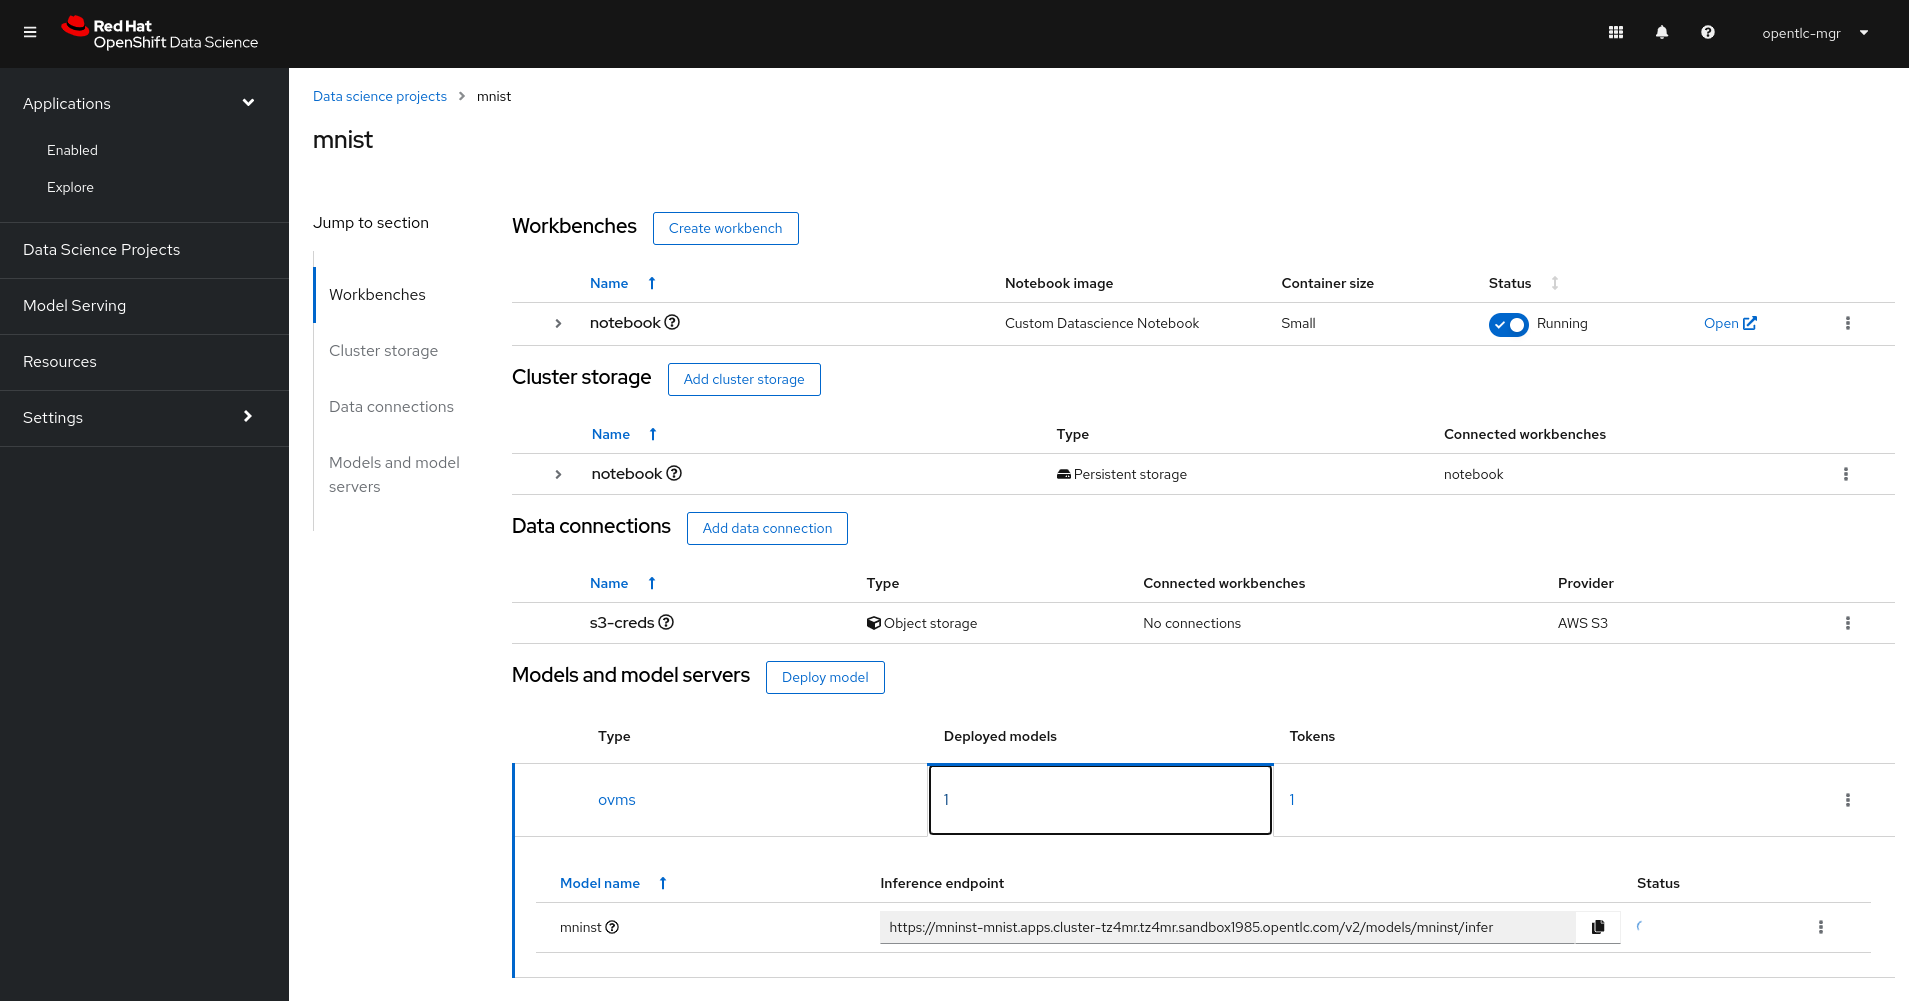
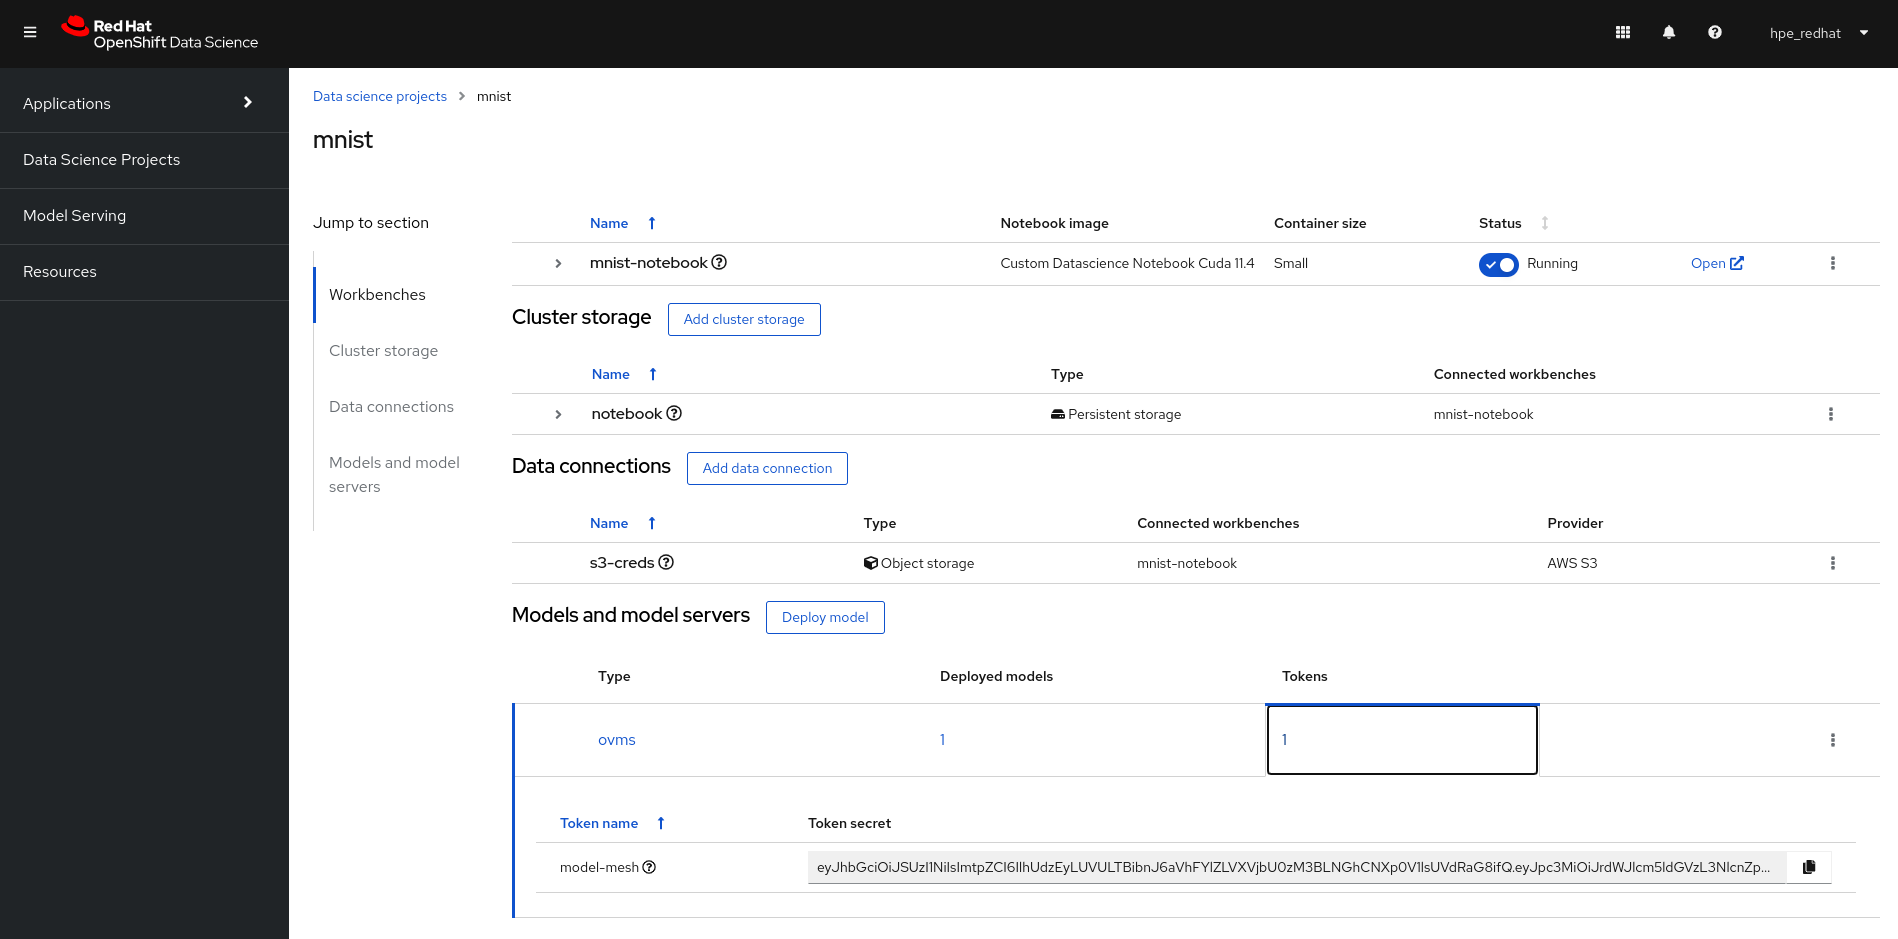
lab instructions

diff --git a/docs/lab-instructions.md b/docs/lab-instructions.md
@@ -2,28 +2,43 @@
 
 ## Log in to Red Hat OpenShift Data Science (RHODS)
 
-On the top right of the screen click on the XXX button and launch Red Hat OpenShift Data Science (RHODS). Select on my_htpasswd_provider and connect with the hpe_redhat user.
+On the top right of the OpenShift console click on the Application Launcher button and click on the Red Hat OpenShift Data Science (RHODS) managed service. Connect using the my_htpasswd_provider and hpe_redhat user.
+
+![launch-dashboard](./screenshots/launch-dashboard.png)
 
 ## Start a new data science project
 
-Go to the **Data Science projects** tab and click on the pre-created **mnist** project. This project has been created with a pvc for the notebook filesystem (i.e the jupyterlab notebooks). It also contains a S3 secret corresponding the the minio credentials deployed in the *redhat-ods-applications* namespace.  
-You need to create a new workbench. Click on the corresponding button and fill up. Don't forget to link the pre-created pvc to the notebook. Complete the form as bellow:
+### Create the workbench
+
+Go to the **Data Science projects** tab and click on the pre-created **mnist** project.
+
+![data-science-project](./screenshots/ds-project.png)
+
+ This project has been created with a pvc for the notebook filesystem (i.e the jupyterlab notebooks). It also has a data connection, which is a secret containing the minio credentials for the S3 storage.  
+You need to create a new workbench. Click on the corresponding button and fill up the form. Don't forget to link the pre-created pvc to the notebook. Complete the form as bellow:
 
 ![create-workbench-1](./screenshots/create-notebook-1.png)
 
 ![create-workbench-2](./screenshots/create-notebook-2.png)
 
-You also have to add the S3 credentials for the notebook you just created. This will restart the notebook as the credentials will the mount on a volume from a secret pre-created for you. See the picture bellow:
+### Edit the Data connections secret
+
+You also have to add the S3 credentials to the notebook you just created. This will restart the notebook as the credentials will be mount on a volume from a secret pre-created for you. See the picture bellow:
 
 ![create-workbench-3](./screenshots/create-notebook-3.png)
 
-RHODS is going to pull a few container images especially the one used for the jupyterlab notebook server. After a few moment the workbench is running and you can open it.
+RHODS is going to pull a few container images especially the one used for the jupyterlab notebook server. This notebook image for this lab is quite heavy (~ 6GB) as it contains the cuda library required to work with the GPU. After a few moment the workbench is running and you can open it.
 
 ![create-workbench-4](./screenshots/create-notebook-4.png)
 
 ## JupyterLab notebooks
 
-On the left side click on the git clone button and clone this repository: https://github.com/adrien-legros/rhods-mnist.git. Navigate to *./rhods-mnist/notebooks/v2*. Check the following files.
+For you are now in the jupyterlab interface.
+On the left side click on the git clone button and clone this repository: https://github.com/adrien-legros/rhods-mnist.git. 
+
+![git-clone](./screenshots/git-clone.png)
+
+Navigate to *./rhods-mnist/notebooks/v2*. Check the following files:
 
 ### Notebooks
 
@@ -31,12 +46,12 @@ There are 3 notebooks available: Pre-process, Train and Metadata. Navigate to ea
 
 #### Pre-process
 
-Load and pre-process the data. The data are loaded from minio s3 bucket. In the notebook, we are describing the data and running basic analysis such as counting the number of observation per label. We also transform the data by normalizing and reshaping them. We store the python numpy objects in a bucket so it is available to the others notebooks (i.e available to next pipeline steps).
+Load and pre-process the data. The data are loaded from the minio s3 bucket. In this notebook, we are describing the data and running basic analysis such as counting the number of observation per label. We also transform the data by normalizing and reshaping them. We store the python numpy objects in a bucket so it is available to the others notebooks (i.e available to next pipeline steps).
 
 #### Train
 
-We load the processed data, create, and train the ML model. The model is a convolutional neural network. See the architecture of the model and the different layers. Once the model is trained, we display few metrics such as the f1 score or the confusion matrix.  
-The model is saved in the minio bucket in the onnx format so that we can serve it later on this lab.
+We load the processed data, create, and train a model. The model is a convolutional neural network. See the architecture of the model and the different layers. Once the model is trained, we display few metrics such as the f1 score or the confusion matrix.  
+The model is saved in the minio bucket in onnx format so that we can serve it later on this lab.
 
 #### Metadata
 
@@ -51,26 +66,11 @@ See also that we need to reference a Runtime Image where the python code will ru
 
 ## Complete and run the pipeline
 
-### Edit default pipeline properties
+### Check the default pipeline properties
 
 Open the pipeline properties panel by clicking on the *Open Panel* button, or right clicking to a node, select *Open Properties* and switch tab to *Pipeline Properties*.
 
-#### Edit default Runtime Image
-
-In the Runtime Image, add by default *Custom Runtime for mnist : CUDA11.4/Py38*.
-
-![default-properties](./screenshots/edit-default-properties-1.png)
-
-
-#### Edit the S3 endpoint url
-
-Get your minio server endpoint url. Go to the **Administrator Console > Networking > Routes** in the *redhat-ods-applications* namespace. Copy the minio route url. Or run the following command:
-```shell
-oc -n mnist get route mnist -ojsonpath='{.status.ingress[0].host}'
-```
-Edit the AWS_S3_ENDPOINT environmental variable value by replacing it with the route endpoint you just copied.
-
-![default-properties](./screenshots/edit-default-properties-2.png)
+![pipeline-properties](./screenshots/pipeline-properties.png)
 
 ### Add a pipeline step
 
@@ -80,11 +80,11 @@ We are going to add the metadata playbook to our pipeline. Open the *mnist.pipel
 
 Additionnaly, confirm that environmental variables has been set by default.
 
-![node-properties](./screenshots/add-metadata-step.png)
+![node-properties](./gif/add-step.gif)
 
 ### Add Kubeflow Runtime
 
-We need to setup the Kuflow Runtime so that Elyra can call Kubeflow Pipeline API to create an experiment and run it. On the left navigation bar, click on Runtimes. Add a new Kubeflow Pipeline runtime configuration. You will need the Kubeflow API endpoint as well as the Minio endpoint and credentials. To get the endpoints, go to **Administrator Console > Networking > Routes** in the *redhat-ods-applications* namespace. Or run the commands:
+We need to setup the Kuflow Runtime so that Elyra can trigger Kubeflow Pipeline API to create an experiment and run it. On the left navigation bar, click on Runtimes. Add a new Kubeflow Pipeline runtime configuration. You will need the Kubeflow API endpoint as well as the Minio endpoint and credentials. To get the endpoints, go to **Administrator Console > Networking > Routes** in the *redhat-ods-applications* namespace. Or run the commands:
 ```shell
 echo MINIO_ENDPOINT: http://$(oc -n redhat-ods-applications get route minio -ojsonpath='{.status.ingress[0].host}')
 echo KUBEFLOW_API_ENDPOINT: http://$(oc -n redhat-ods-applications get route ds-pipeline -ojsonpath='{.status.ingress[0].host}')
@@ -118,6 +118,9 @@ Check out the logs by clicking on a step, then on the log tab.
 The pipeline completed after approximatively 5 minutes with the GPU enabled.
 
 Click on the **Run Ouput** tab. Notice that few metadata artifacts has been created throughout the pipeline. By default, you can retrieve all logs in html or ipynb format. Click on a link to redirect to minio bucket.  
+
+![artifacts](./screenshots/artifacts.png)
+
 Also notice that a tensorboard is availble. We have deployed a visualization server and a custom resource associated. We will use this server to visualize the model metrics by run and compare them.
 
 Go to **Administrator Console > Networking > Routes** in the *redhat-ods-applications* namespace. Open the *my-viewer* url to open the Visualization server. **WARNING:** Don't forget the /tensorboard/my-viewer/ path at the end of the hostname.  
@@ -130,11 +133,15 @@ echo https://$(oc -n redhat-ods-applications get route my-viewer -ojsonpath='{.s
 
 ## Model Serving
 
-Now it is time to serve our model using modelmesh serving. Go back to RHODS dashboard. Click on **Configure server**. Make the model available via external route and secure it with a token authorization. The token authoriezation uses oauth proxy as backend. Choose model-mesh as service account name. Finally click on configure:
+Now it is time to serve our model using modelmesh serving. Go back to RHODS dashboard. Click on **Configure server**. Make the model available via external route and secure it with a token authorization. The token authoriezation uses oauth proxy as backend. Choose *model-mesh* as service account name. Finally click on configure:
 
 ![model-serving](./screenshots/model-serving.png)
 
-Then click on **Deploy model**. Enter *mnist* as model name. Select *onnx - 1* as model framework. In the Train.ipynb notebook we trained and saved a model in the onnx format. We converted a tensorflow model in the onnx format. The onnx model is saved in the minio S3 bucket at the path *onnx/model-v2.onnx*. Let's add the s3 bucket as the data connection and *onnx/model-v2.onnx* as the folder path. Deploy the model. Wait for the model deployment to complete. You can now see the model endpoint as well as the token associated with the service account created.  
+Then click on **Deploy model**. Enter *mnist* as model name. Select *onnx - 1* as model framework. In the Train.ipynb notebook we trained and saved a model in the onnx format. We converted a tensorflow model in the onnx format. The onnx model is saved in the minio S3 bucket at the path *onnx/model-v2.onnx*. Let's add the s3 bucket as the data connection and *onnx/model-v2.onnx* as the folder path. Deploy the model. 
+
+![deploy-model](./screenshots/deploy-model.png)
+
+Wait for the model deployment to complete. You can now see the model endpoint as well as the token associated with the service account created.  
 **NOTE:** The service account resource as not been created. The model server has created a secret named *model-mesh* containing the token, certificate etc.
 
 ![model-serving-token](./screenshots/model-serving-endpoint.png)
@@ -152,9 +159,6 @@ The ONNX framework is adequation with this architecutre. Therefore the model ser
 For more information conerning the serverless function check out the openshift-serverless/functions/app-src directory. The file *preprocessing.py* contains the 2 most important functions:
 - process_data: convert the png format to a well shaped tensor
 - process_payload: take the template expected by modelmesh serving and add the processed data
-
-Before deploying the serverless function, modify ./openshift-serverless/manifests/kustomization.yaml.  
-Change the modelmesh inference endpoint with the url displayed in the RHODS dashboard. Confirm that the 2 other variables are correctly set.
 
 Now deploy the serverless function:
 ```shell
@@ -178,3 +182,8 @@ oc -n mnist get route mnist-webapp -ojsonpath='{.status.ingress[0].host}'
 Draw a digit between 1 and 9. Click on predict and see te ouput. Note: the first prediction can take more time as the serverless function might not be running. The following predictions will be much faster.
 
 ## Clean Up
+
+Once you finished and saved all needed files, you can reset the lab by running:
+```shell
+oc create -f /lab-reset/reset-job.yaml
+```

diff --git a/README.md b/README.md
@@ -26,6 +26,17 @@ oc apply -k ./webapp/v2/manifests/
 oc apply -k ./openshift-serverless/manifests/
 ```
 
+## Reset lab
+
+```shell
+# Reset configurations
+oc apply -k ./lab-reset/
+# Reset job
+oc create -f ./lab-reset/reset-job.yaml
+# Reset cron job
+oc create -f ./lab-reset/reset-cron-job.yaml
+```
+
 ```shell
 # Get the model serving endpoint
 oc -n mnist get route mnist -ojsonpath='{.status.ingress[0].host}'
